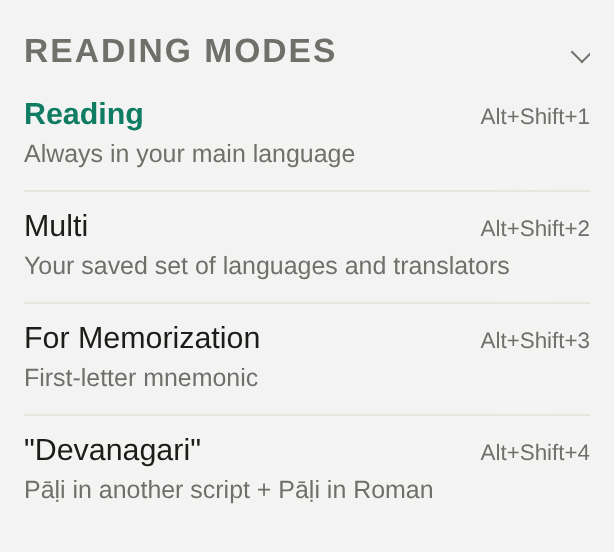
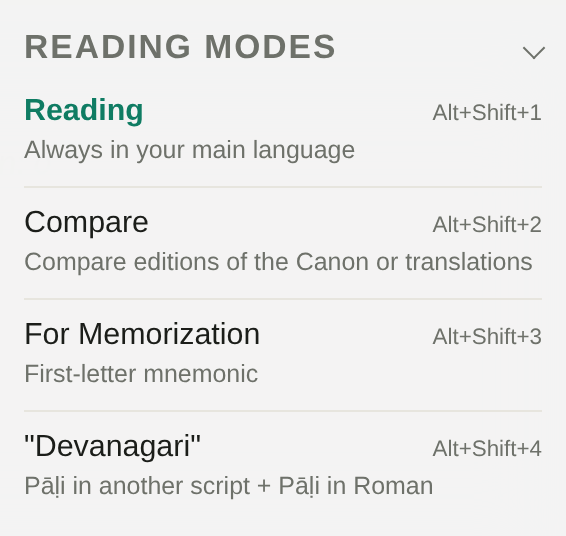
Reader mode Multi is now Compare (EN, RU; f3-ultra, dg-node 5e1cf78): modes table, hotkeys, ✦ → Compare (the most for that visit, saved settings unchanged), the mode's default and kept changes on /compare; new "Reading modes" drawer screenshots
Claude-Session: https://claude.ai/code/session_01DcgqysE8dq8EHEQLgnPGH5

diff --git a/i18n/ru/docusaurus-plugin-content-docs/current/user/read.md b/i18n/ru/docusaurus-plugin-content-docs/current/user/read.md
@@ -48,7 +48,7 @@ import ReaderQuickSettingsDict from '@site/static/img/help/reader-quick-settings
 | Хоткей | Режим | Что показывает |
 |---|---|---|
 | Alt+Shift+1 | Читать | Pāḷi + перевод, всегда на основном языке |
-| Alt+Shift+2 | Мульти | Pāḷi + сохранённый набор языков и переводчиков рядом |
+| Alt+Shift+2 | Сравнить | Редакции Канона или переводы рядом: по умолчанию все издания, перевод на основном языке и отличия; что вы там поменяете, сохраняется |
 | Alt+Shift+3 | Для запоминания | Мнемоника по первой букве (тот же приём, что в [Мемо](/memo#сжать--подсказки-по-первой-букве), но сразу на живом тексте сутты) |
 | Alt+Shift+4 | Деванагари | Pāḷi в другом письме + Pāḷi латиницей |
 
@@ -73,7 +73,7 @@ MN 1–76), затем Siam Rath.
 
 ## Переводчики, озвучка и ссылки
 
-- **Плашки.** В режиме Multi по строкам каждая строка перевода начинается с тихой плашки с кратким именем
+- **Плашки.** В режиме «Сравнить» по строкам каждая строка перевода начинается с тихой плашки с кратким именем
   переводчика (**Suj**, **Tns**, **O** — собственный перевод проекта), у изданий плашки заглавными
   (**MS**, **BJT**). Строка над текстом называет, что показано: `Pāḷi MS Trn: o`.
 - **Динамик на каждой строке заголовка.** 🔈 рядом с заголовком на пали читает пали, рядом с заголовком
@@ -105,8 +105,9 @@ MN 1–76), затем Siam Rath.
   же, подпись выбирается случайно) — открывает
   [Запоминание](/memo) с текстом от этой строки и дальше (примерно до
   1200 знаков).
-- **Сравнить** — открывает этот текст на этой строке в режиме Multi со
-  всеми изданиями пали рядом и подсвеченными отличиями — см.
+- **Сравнить** — открывает эту строку в режиме «Сравнить» с максимумом на
+  этот раз: все издания пали и все переводы на ваших языках, отличия
+  подсвечены. Ваши собственные настройки «Сравнить» не меняются — см.
   [Сравнение](/compare).
 
 :::info[Почему клик по самому тексту делает что-то другое]

diff --git a/docs/user/read.md b/docs/user/read.md
@@ -43,12 +43,12 @@ Every shortcut is on the [Hotkeys](/hotkeys) page.
 Four reading modes, listed under "Reading modes" in the burger menu (☰),
 each with its own Alt+Shift hotkey:
 
-<img src={ReaderModesDrawer} alt="The 'Reading modes' panel in the burger menu" style={{maxWidth: 'min(320px, 100%)', display: 'block', margin: '0 auto 1.5rem'}} />
+<img src={ReaderModesDrawer} alt="The 'Reading modes' panel in the burger menu: Reading, Compare, For Memorization, Devanagari" style={{maxWidth: 'min(320px, 100%)', display: 'block', margin: '0 auto 1.5rem'}} />
 
 | Hotkey | Mode | What it shows |
 |---|---|---|
 | Alt+Shift+1 | Reading | Pāḷi + one translation, always in your main language |
-| Alt+Shift+2 | Multi | Pāḷi + your saved set of languages and translators side by side |
+| Alt+Shift+2 | Compare | Editions of the Canon or translations side by side: by default every edition, a translation in your main language and the differences; what you change there is kept |
 | Alt+Shift+3 | For Memorization | First-letter mnemonic (the same trick as [Memo](/memo#transform--first-letter-hints), applied straight to the live sutta text) |
 | Alt+Shift+4 | Devanagari | Pāḷi in another script + Pāḷi in Latin |
 
@@ -73,7 +73,7 @@ Mahāsaṅgīti 2005 (**MS05**) and Pali Text Society (**PTS**): one of them, or
 
 ## Translators, voices and sharing
 
-- **Plates.** In the Multi mode by lines each translation line starts with a quiet plate with the translator's
+- **Plates.** In the Compare mode by lines each translation line starts with a quiet plate with the translator's
   short name (**Suj**, **Tns**, **O** — the project's own translation), the editions' plates in capitals
   (**MS**, **BJT**). The line above the text names what is shown: `Pāḷi MS Trn: o`.
 - **A speaker on every title line.** 🔈 next to the Pali title reads the Pali, next to a translation's title
@@ -106,8 +106,9 @@ appears; clicking it opens a menu with 7 actions:
   the label is picked at random) — opens
   [Memo](/memo) pre-filled with the text from this line onward (up to
   about 1,200 characters).
-- **Compare** — opens this text at this line in the Multi mode with every
-  Pali edition side by side and the differences highlighted — see
+- **Compare** — opens this line in the Compare mode with the most for this
+  visit: every Pali edition and every translation in your languages, the
+  differences highlighted. Your own Compare settings stay as they were — see
   [Compare](/compare).
 
 :::info[Why clicking the text itself does something different]

diff --git a/i18n/ru/docusaurus-plugin-content-docs/current/user/compare.md b/i18n/ru/docusaurus-plugin-content-docs/current/user/compare.md
@@ -23,7 +23,10 @@ import CompareDiff from '@site/static/img/help/compare-diff.png';
 
 ## Как сравнивать
 
-- **✦ → Сравнить** на любой строке открывает текст во всех изданиях, отличия уже включены.
+- **✦ → Сравнить** на любой строке открывает текст во всех изданиях и всех переводах на ваших языках, отличия уже
+  включены; ваши собственные настройки «Сравнить» не меняются.
+- Режим ридера **«Сравнить»** (**Alt+Shift+2**) по умолчанию показывает все издания, перевод на основном языке и
+  отличия. Что вы там поменяете (издания, строки или колонки, переводчиков, отличия), сохраняется.
 - Издания выбираются в [Настройках](/settings) или в быстрых настройках ридера. В колонках (**Alt+C**) **−** / **+**
   убирают или добавляют колонку.
 - Переключатель **Отличия** подсвечивает то, чего нет у большинства показанных изданий.

diff --git a/docs/user/compare.md b/docs/user/compare.md
@@ -23,7 +23,10 @@ Any text can be read in six Pali editions at once, line by line, with the differ
 
 ## How to compare
 
-- **✦ → Compare** on any line opens the text with every edition, differences on.
+- **✦ → Compare** on any line opens the text with every edition and every translation in your languages, differences on;
+  your own Compare settings stay as they were.
+- The **Compare** reader mode (**Alt+Shift+2**) shows by default every edition, a translation in your main language and
+  the differences. What you change there (editions, lines or columns, translators, differences) is kept.
 - Choose the editions in [Settings](/settings) or the reader's quick settings. In columns (**Alt+C**), **−** / **+**
   remove or add a column.
 - The **Differences** switch highlights what most of the editions shown do not have.

diff --git a/i18n/ru/docusaurus-plugin-content-docs/current/user/hotkeys.md b/i18n/ru/docusaurus-plugin-content-docs/current/user/hotkeys.md
@@ -45,7 +45,7 @@ import AppFrame from '@site/src/components/AppFrame';
 | Сочетание | Что делает |
 |---|---|
 | **Ctrl+→** / **Ctrl+←** | Следующий / предыдущий текст |
-| **Alt+Shift+1** … **Alt+Shift+4** | Режимы ридера: «Читать», «Мульти», «Для запоминания», «Деванагари» |
+| **Alt+Shift+1** … **Alt+Shift+4** | Режимы ридера: «Читать», «Сравнить», «Для запоминания», «Деванагари» |
 | **Alt+Z** | Показать / скрыть второй язык (пали или перевод) |
 | **Alt+C** | Одна или две колонки |
 | **Alt+V** | Показать / скрыть варианты чтения |

diff --git a/docs/user/hotkeys.md b/docs/user/hotkeys.md
@@ -46,7 +46,7 @@ way.
 | Shortcut | What it does |
 |---|---|
 | **Ctrl+→** / **Ctrl+←** | Next / previous text |
-| **Alt+Shift+1** … **Alt+Shift+4** | Reader modes: Reading, Multi, For Memorization, Devanagari |
+| **Alt+Shift+1** … **Alt+Shift+4** | Reader modes: Reading, Compare, For Memorization, Devanagari |
 | **Alt+Z** | Show / hide the second language (Pali or translation) |
 | **Alt+C** | One or two columns |
 | **Alt+V** | Show / hide variant readings |
